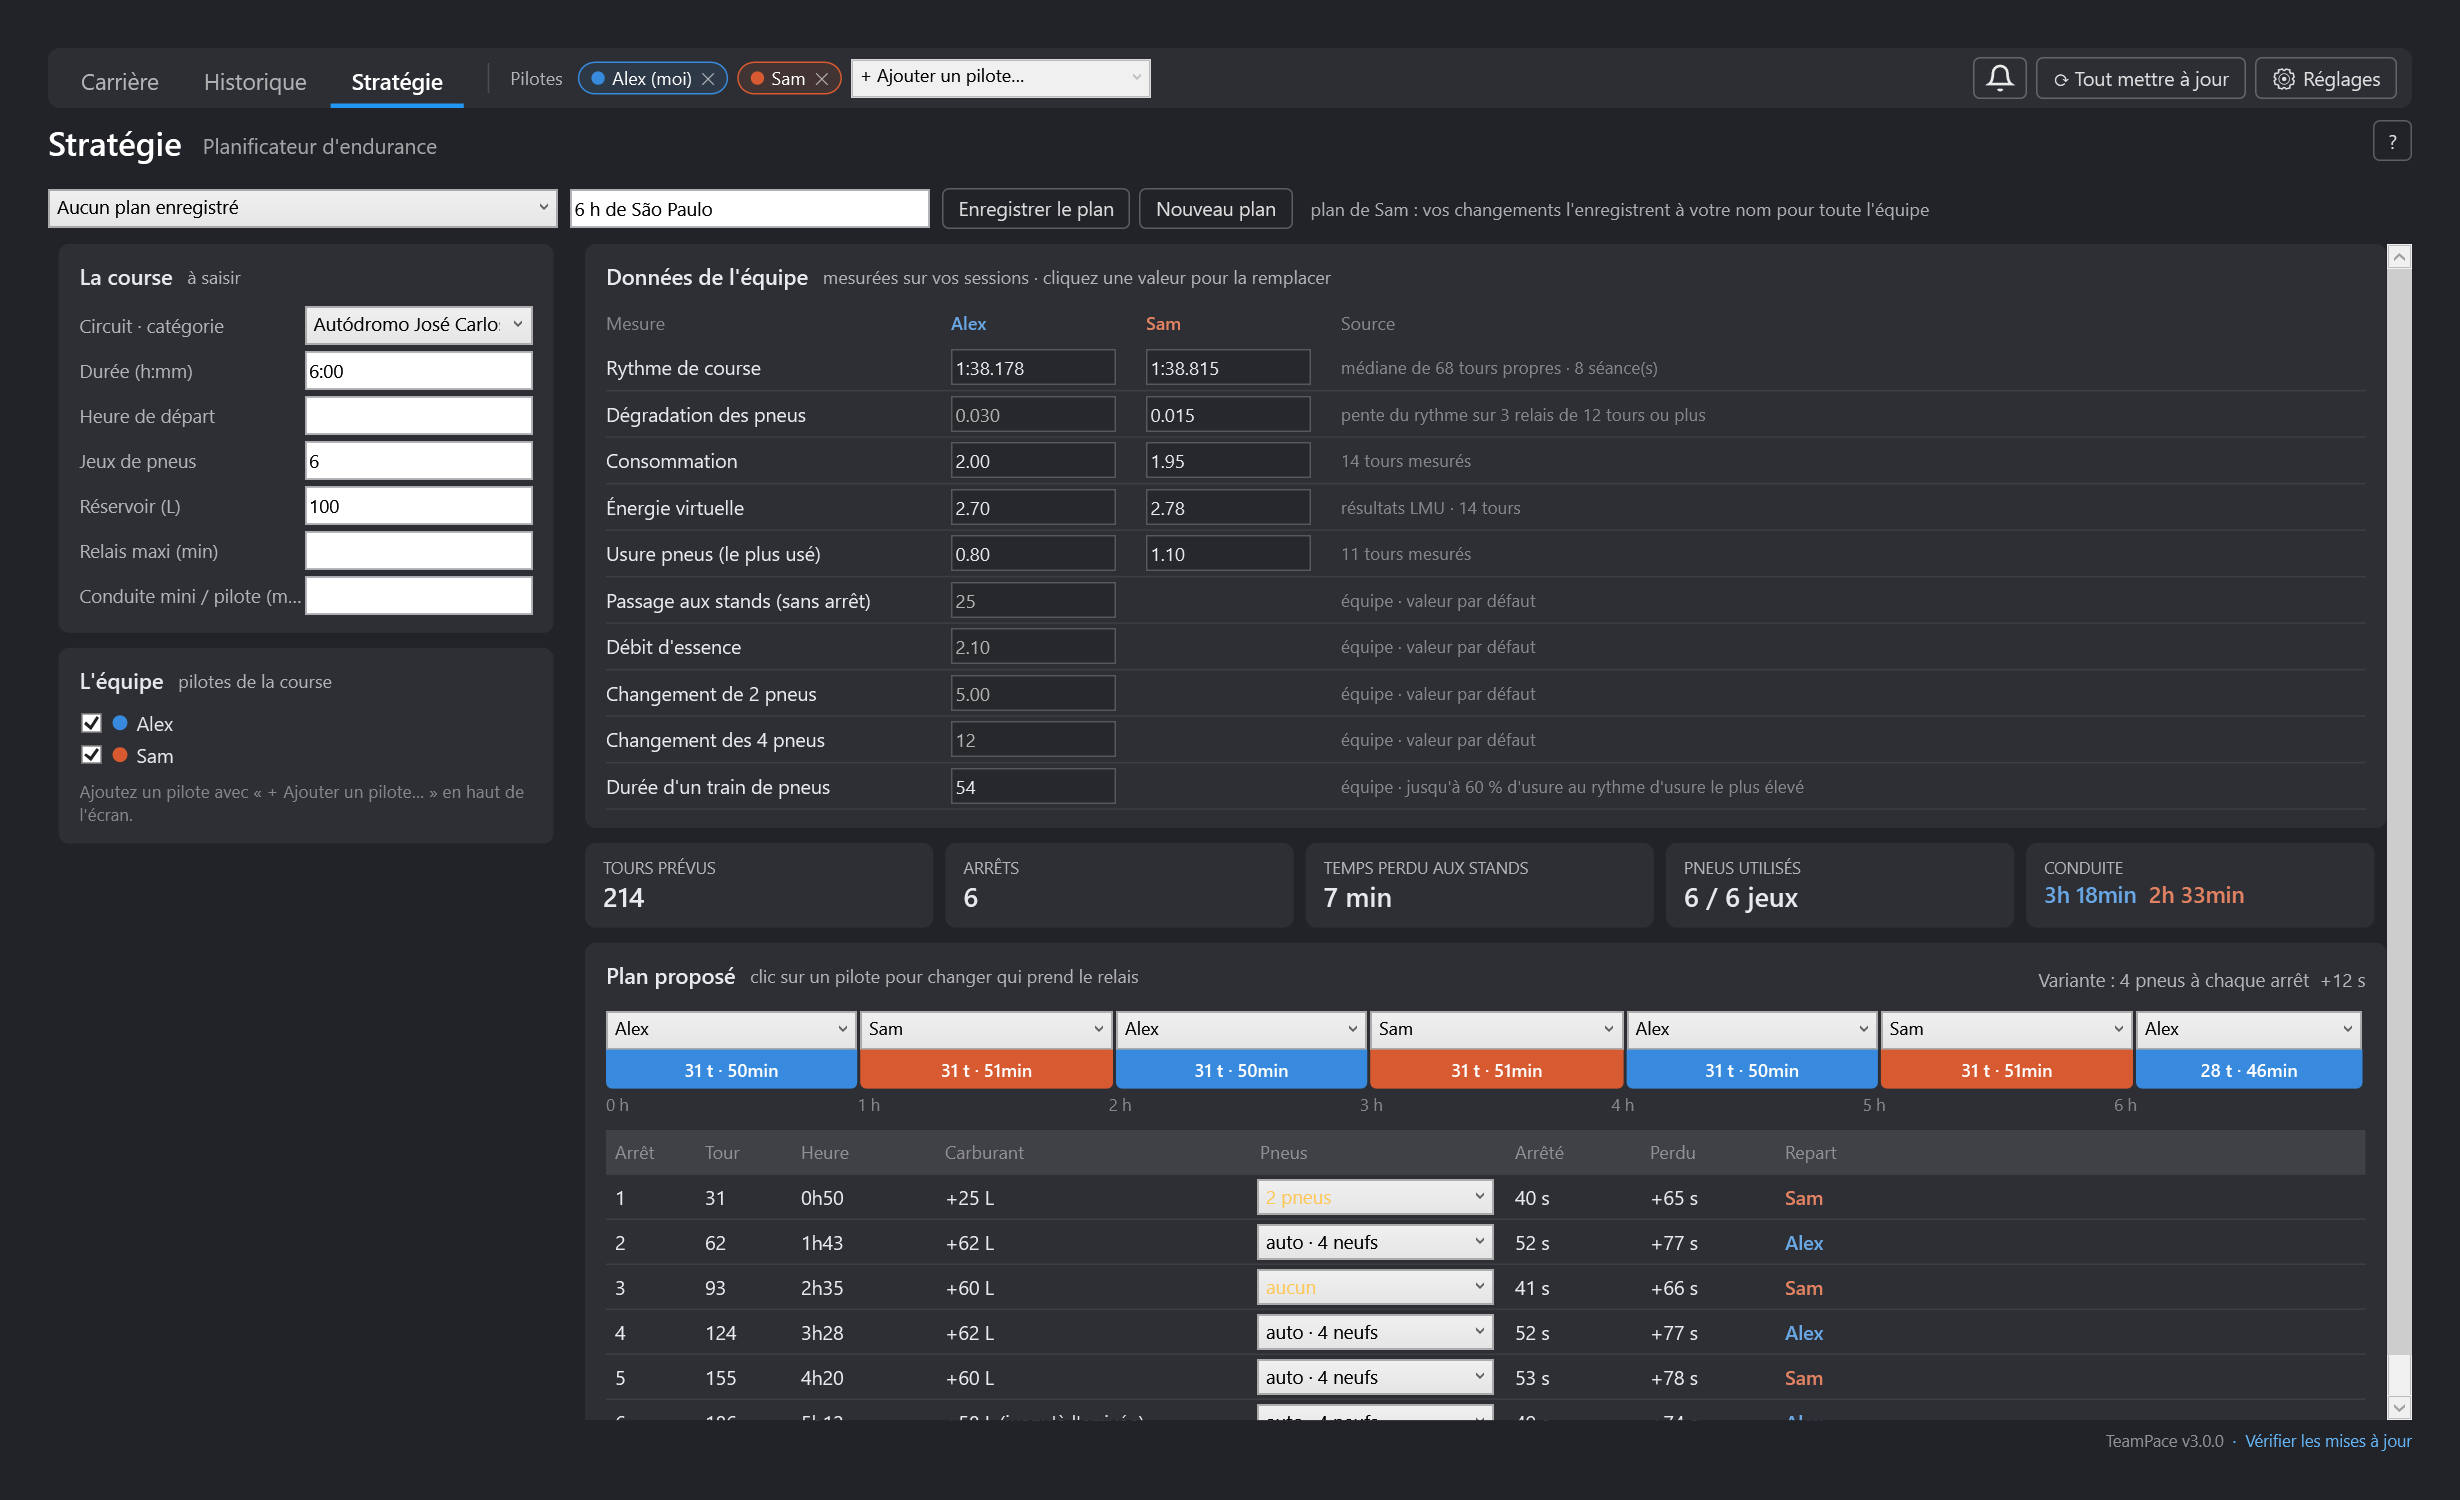
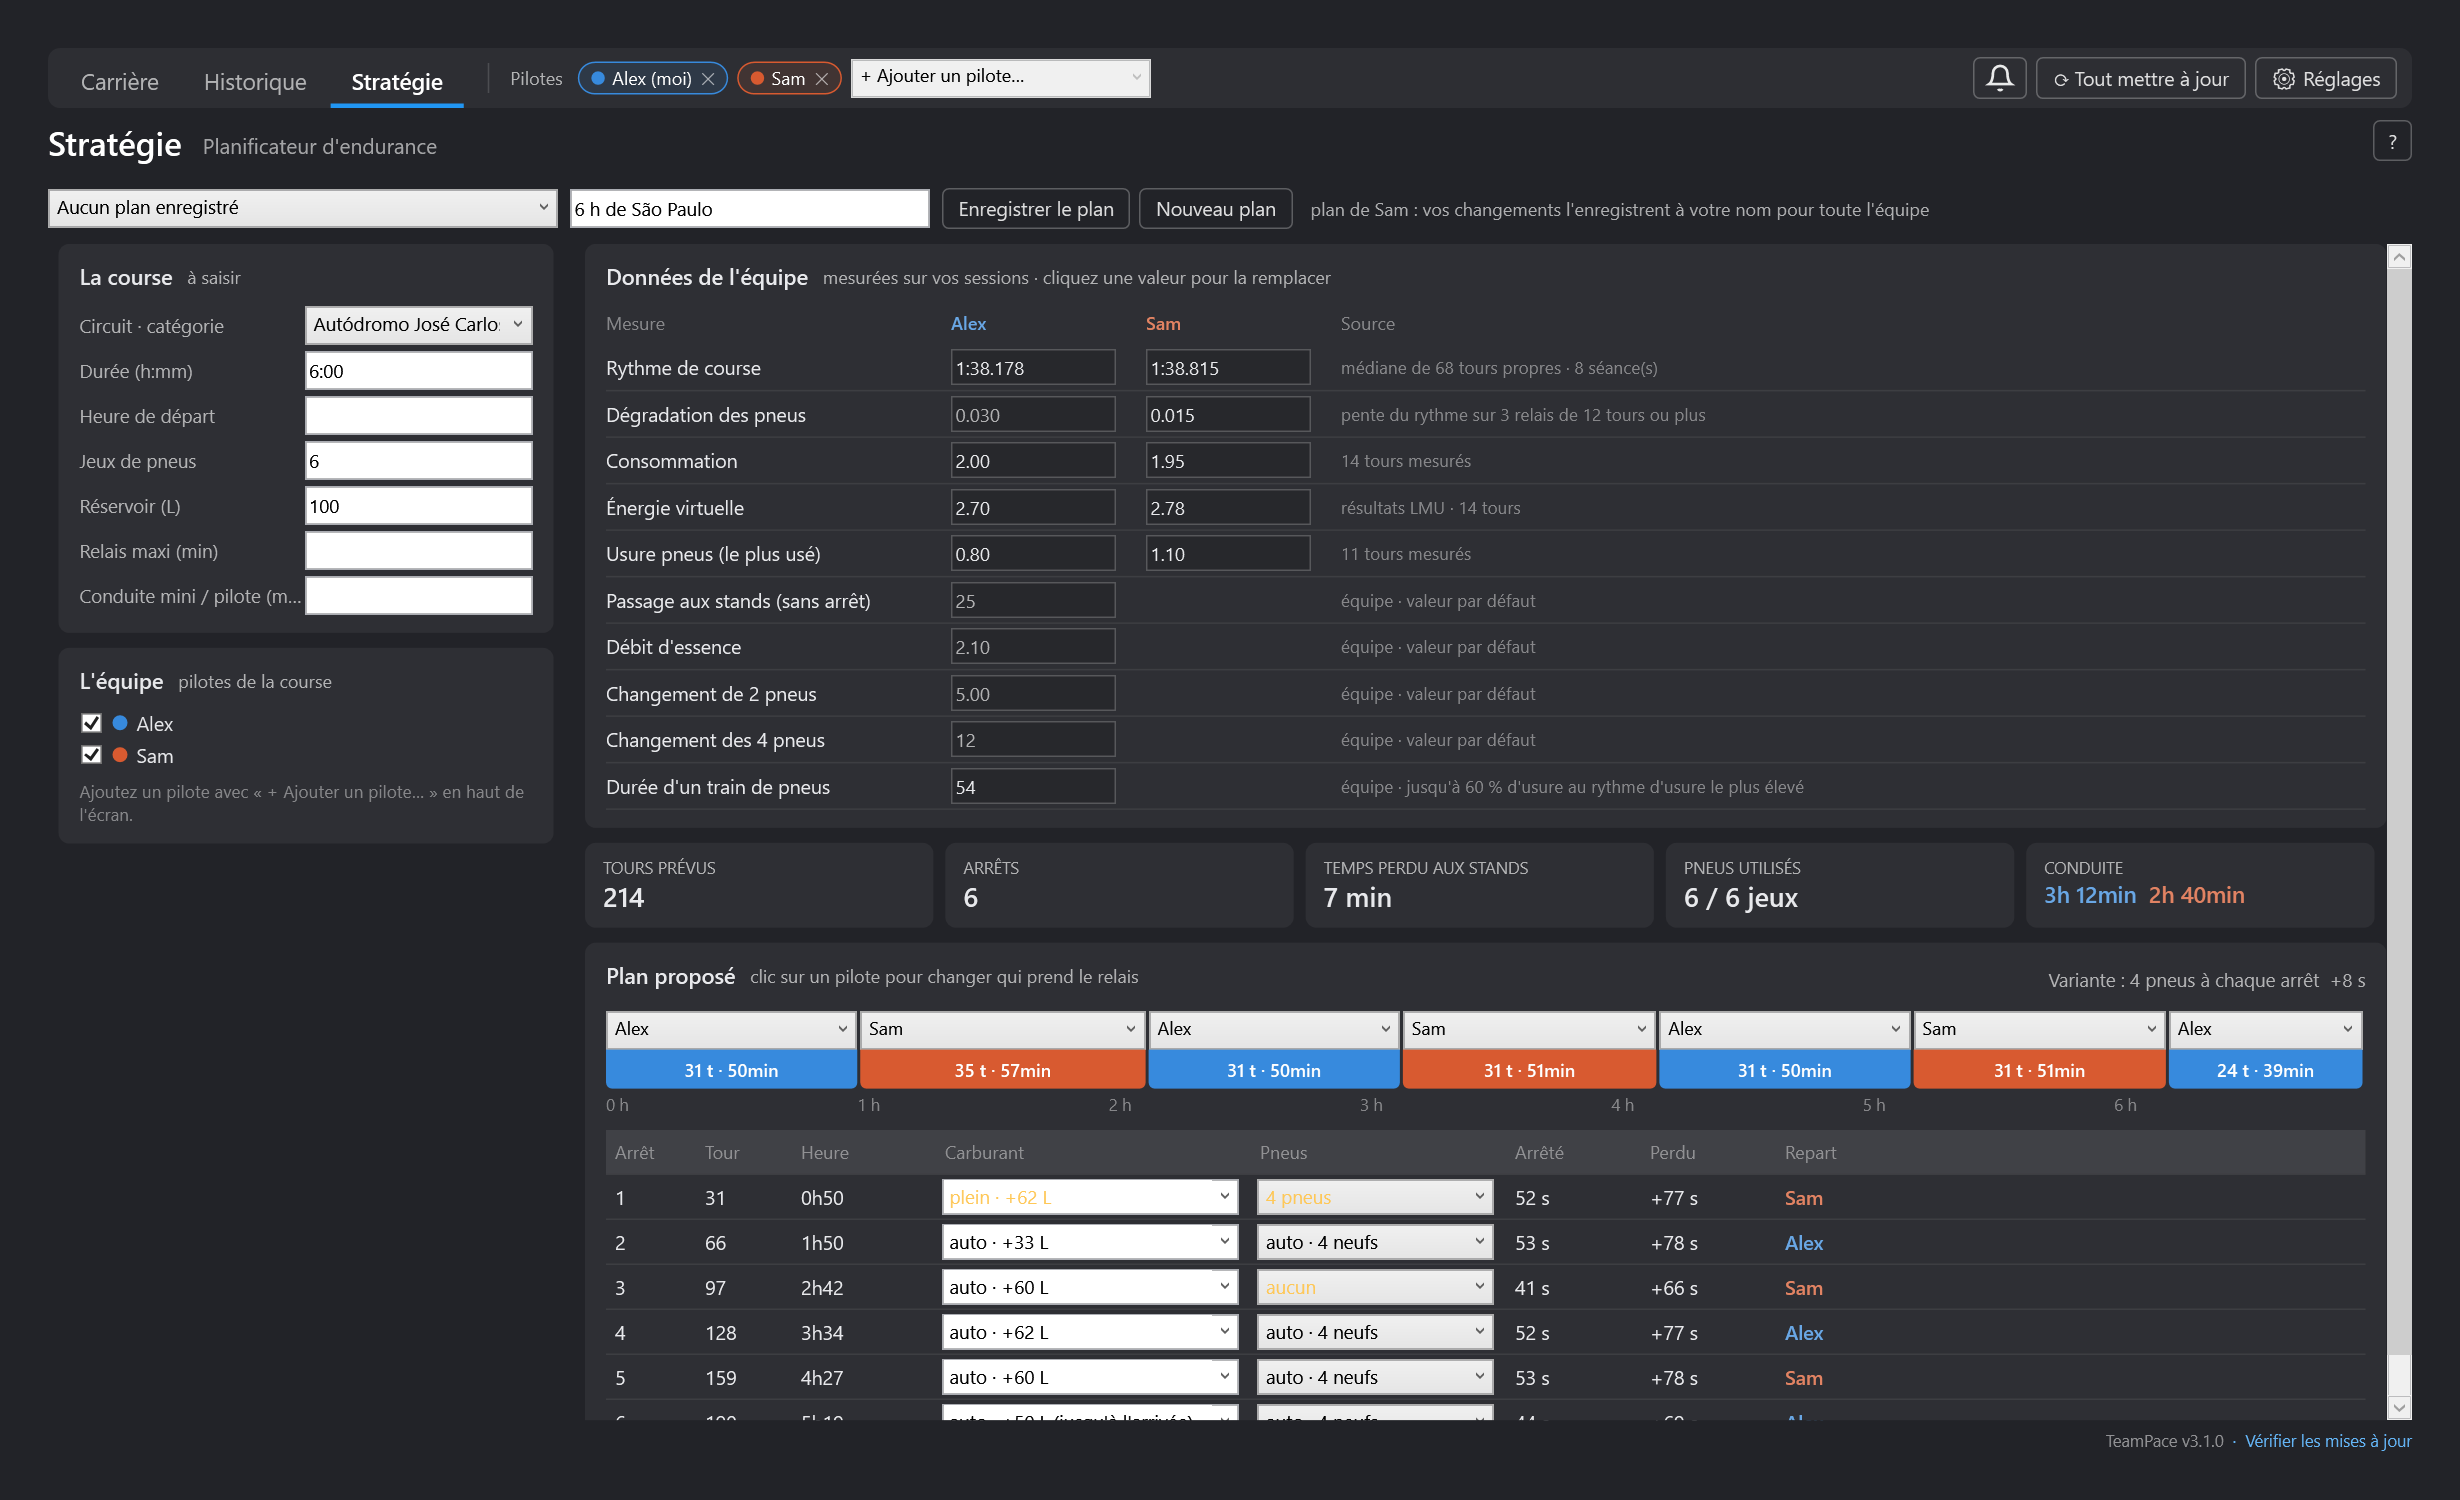
Strategy: fuel chosen per stop (auto, full tank or litres)
The stop time and the next stint's length follow; virtual energy is
refilled in proportion; the stint after a hand-chosen refuel is not
shortened by the stint balancing.

diff --git a/StrategyEngine.cs b/StrategyEngine.cs
@@ -22,16 +22,19 @@ namespace User.TeamPace
         public List<string> Drivers     { get; set; }   // drivers taking part
         public List<string> StintDrivers { get; set; }  // driver of each stint, chosen by hand
         public List<int>    StopTyres   { get; set; }   // tyres changed at each stop, -1 = automatic
+        public List<double> StopFuel    { get; set; }   // litres added at each stop, -1 = automatic (Full = fill up)
         public List<StrategyOverride> Overrides { get; set; }
         public string   Author     { get; set; }   // last saved by
         public DateTime UpdatedUtc { get; set; }
+
+        public const double Full = 9999;
 
         public static StrategyPlan Default()
         {
             return new StrategyPlan
             {
                 DurationMin = 360, StartClock = "", TyreSets = 6, TankL = 100, MaxStintMin = 0, MinDriveMin = 0,
-                Drivers = new List<string>(), StintDrivers = new List<string>(), StopTyres = new List<int>(),
+                Drivers = new List<string>(), StintDrivers = new List<string>(), StopTyres = new List<int>(), StopFuel = new List<double>(),
                 Overrides = new List<StrategyOverride>(),
             };
         }
@@ -42,6 +45,7 @@ namespace User.TeamPace
             if (Drivers == null) Drivers = new List<string>();
             if (StintDrivers == null) StintDrivers = new List<string>();
             if (StopTyres == null) StopTyres = new List<int>();
+            if (StopFuel == null) StopFuel = new List<double>();
             if (Overrides == null) Overrides = new List<StrategyOverride>();
         }
     }
@@ -285,6 +289,8 @@ namespace User.TeamPace
             public double FuelL;
             public int Tyres;          // tyres changed
             public bool TyresChosen;   // set by hand
+            public bool FuelChosen;
+            public bool Full;          // filled up
             public double Stopped, Lost;
             public string NextDriver;
         }
@@ -344,6 +350,7 @@ namespace User.TeamPace
             double t = 0, fuelInTank = tank, energy = 100;
             double tyreAge = 0;
             int lap = 0, stint = 0;
+            bool free = false;   // the stint after a refuel chosen by hand is not shortened
             sim.TyresUsed = 4;
 
             while (t < duration && stint < 200)
@@ -352,7 +359,7 @@ namespace User.TeamPace
                 var p = m.Drivers.Find(d => d.Driver.Name == key).Values;
                 double pace = p[Pace].Value, fuel = p[Fuel].Value, ve = p[Energy].Value, deg = p[Degradation].Value;
                 int n = Limit(fuelInTank, energy, fuel, ve, pace, plan.MaxStintMin);
-                if (capLaps > 0) n = Math.Min(n, capLaps);
+                if (capLaps > 0 && !free) n = Math.Min(n, capLaps);
                 var s = new StintPlan { Driver = key, Start = t };
                 for (int k = 0; k < n && t < duration; k++)
                 {
@@ -372,9 +379,17 @@ namespace User.TeamPace
                 int toFlag = (int)Math.Ceiling((duration - t - lane) / nPace) + 1;
                 int next = Math.Min(Limit(tank, 100, nFuel, nVe, nPace, plan.MaxStintMin), Math.Max(1, toFlag));
                 if (capLaps > 0) next = Math.Min(next, capLaps + 1);   // fuel for the balanced stint, one lap spare
+                int stopIndex = sim.Stops.Count;
                 double add = Math.Max(0, Math.Min(tank - fuelInTank, next * nFuel + 0.5 * nFuel - fuelInTank));
                 double veAdd = nVe > 0 ? Math.Max(0, Math.Min(100 - energy, next * nVe + 0.5 * nVe - energy)) : 0;
-                int stopIndex = sim.Stops.Count;
+                bool fuelChosen = plan.StopFuel != null && stopIndex < plan.StopFuel.Count && plan.StopFuel[stopIndex] >= 0;
+                if (fuelChosen)
+                {
+                    // Litres chosen by hand (or a full tank): virtual energy follows in proportion
+                    add = Math.Max(0, Math.Min(tank - fuelInTank, plan.StopFuel[stopIndex]));
+                    veAdd = nVe > 0 ? Math.Max(0, Math.Min(100 - energy, add / nFuel * nVe)) : 0;
+                    next = Math.Min(Limit(fuelInTank + add, energy + veAdd, nFuel, nVe, nPace, plan.MaxStintMin), Math.Max(1, toFlag));
+                }
                 bool chosen = !tyresEveryStop && plan.StopTyres != null && stopIndex < plan.StopTyres.Count && plan.StopTyres[stopIndex] >= 0;
                 int tyres = chosen ? Math.Min(4, plan.StopTyres[stopIndex]) : (tyresEveryStop || tyreAge + next > life ? 4 : 0);
                 if (tyres > 0 && sim.TyresUsed + tyres > plan.TyreSets * 4)
@@ -387,7 +402,12 @@ namespace User.TeamPace
                 double refuel = Math.Max(add, nVe > 0 ? veAdd / 100 * tank : 0) / rate;
                 double stopped = refuel + tyreTime(tyres);
                 double lost = lane + stopped;
-                sim.Stops.Add(new StopPlan { Lap = lap, At = t, FuelL = add, Tyres = tyres, TyresChosen = chosen, Stopped = stopped, Lost = lost, NextDriver = nextKey });
+                sim.Stops.Add(new StopPlan
+                {
+                    Lap = lap, At = t, FuelL = add, FuelChosen = fuelChosen, Full = fuelInTank + add >= tank - 0.5,
+                    Tyres = tyres, TyresChosen = chosen, Stopped = stopped, Lost = lost, NextDriver = nextKey,
+                });
+                free = fuelChosen;
                 sim.PitLoss += lost;
                 t += lost;
                 fuelInTank += add; energy += veAdd;

diff --git a/StrategyView.cs b/StrategyView.cs
@@ -486,16 +486,69 @@ namespace User.TeamPace
                 var g = row(new[]
                 {
                     (i + 1).ToString(), s.Lap.ToString(), Clock(s.At),
-                    string.Format(Inv, "+{0:0} L{1}", s.FuelL, last ? " (jusqu'à l'arrivée)" : ""),
+                    null,
                     null,
                     string.Format(Inv, "{0:0} s", s.Stopped), string.Format(Inv, "+{0:0} s", s.Lost),
                     d != null ? d.Name : "",
                 }, d != null ? Ui.Light(d.Brush) : Ui.Text, false);
+                g.Children.Add(FuelChoice(i, s, last));
                 g.Children.Add(TyreChoice(i, s));
                 panel.Children.Add(wrap(g, false));
             }
             if (sim.Stops.Count == 0) panel.Children.Add(Ui.T("Aucun arrêt nécessaire.", 13, Ui.Muted));
             return panel;
+        }
+
+        /// <summary>
+        /// Fuel put in at a stop: automatic (what the next stint needs), a full tank, or litres
+        /// typed by hand. The stop time and the next stint's length follow.
+        /// </summary>
+        private ComboBox FuelChoice(int stop, StrategyEngine.StopPlan s, bool last)
+        {
+            var cb = new ComboBox
+            {
+                Height = 24, FontSize = 12.5, Margin = new Thickness(4, 0, 8, 0), VerticalAlignment = VerticalAlignment.Center,
+                IsEditable = true,
+                ToolTip = "auto : juste ce qu'il faut pour le relais suivant · plein : remplir le réservoir · ou tapez des litres (ex. 60) puis Entrée",
+            };
+            string auto = string.Format(Inv, "auto · +{0:0} L{1}", s.FuelL, last ? " (jusqu'à l'arrivée)" : "");
+            string full = "plein";
+            cb.Items.Add(auto);
+            cb.Items.Add(full);
+            if (s.FuelChosen)
+            {
+                cb.Text = s.Full && Math.Abs(ValueAt(stop) - StrategyPlan.Full) < 1 ? string.Format(Inv, "plein · +{0:0} L", s.FuelL) : string.Format(Inv, "{0:0} L", s.FuelL);
+                cb.Foreground = Ui.Amber;
+            }
+            else cb.SelectedIndex = 0;
+
+            Action<double> apply = litres =>
+            {
+                while (_plan.StopFuel.Count <= stop) _plan.StopFuel.Add(-1);
+                _plan.StopFuel[stop] = litres;
+                Dispatcher.BeginInvoke(new Action(Rebuild));
+            };
+            cb.SelectionChanged += (snd, e) =>
+            {
+                if (_building || cb.SelectedIndex < 0) return;
+                apply(cb.SelectedIndex == 0 ? -1 : StrategyPlan.Full);
+            };
+            Action typed = () =>
+            {
+                if (_building || cb.SelectedIndex >= 0) return;
+                var text = (cb.Text ?? "").Replace("L", "").Replace("l", "").Replace("+", "").Replace(',', '.').Trim();
+                double litres;
+                if (double.TryParse(text, NumberStyles.Float, Inv, out litres) && litres >= 0) apply(litres);
+            };
+            cb.LostFocus += (snd, e) => typed();
+            cb.KeyDown += (snd, e) => { if (e.Key == System.Windows.Input.Key.Enter) typed(); };
+            Grid.SetColumn(cb, 3);
+            return cb;
+        }
+
+        private double ValueAt(int stop)
+        {
+            return stop < _plan.StopFuel.Count ? _plan.StopFuel[stop] : -1;
         }
 
         /// <summary>How many tyres to change at a stop: automatic, or 0 to 4 chosen by hand.</summary>

diff --git a/README.md b/README.md
@@ -280,6 +280,10 @@ l'antipatinage. Les étiquettes rouges montrent ce qui coûte, les vertes ce qui
   au-dessus de chaque relais choisit qui le prend (Pascal, Pascal, Amaury, Amaury…) et le plan se
   recalcule. Sous le plan : chaque arrêt avec son tour, son heure, le carburant ajouté, les pneus,
   le temps arrêté et le temps perdu, et les alertes (pneus insuffisants, temps de conduite minimum).
+- **Carburant de chaque arrêt** : *auto* remet juste ce qu'il faut pour le relais suivant ; *plein*
+  remplit le réservoir pour pousser un relais complet ; ou tapez des litres (par exemple 60, puis
+  Entrée). Le temps d'arrêt et la longueur du relais suivant suivent (l'énergie virtuelle est
+  remise dans la même proportion).
 - **Pneus de chaque arrêt** : *auto* les change quand le train arrive en fin de vie ; choisissez
   aucun, 1, 2, 3 ou 4 pneus et le temps d'arrêt suit (2 et 4 pneus mesurés, 1 et 3 entre les deux).
   Un choix fait à la main apparaît en jaune.

diff --git a/CHANGELOG.md b/CHANGELOG.md
@@ -3,6 +3,13 @@
 Chaque version est publiée dans les [releases](../../releases) et proposée automatiquement dans
 TeamPace par le bandeau de mise à jour.
 
+## 3.2.0
+
+- **Stratégie** : carburant au choix à chaque arrêt (auto, plein ou litres tapés à la main). Le temps
+  d'arrêt et la longueur du relais suivant suivent ; un plein permet de pousser un relais complet,
+  carburant et pneus.
+- Documentation et capture de la stratégie mises à jour.
+
 ## 3.1.0
 
 - **Correction importante** : quand Google Drive change de lettre de lecteur (J: → I: après un
